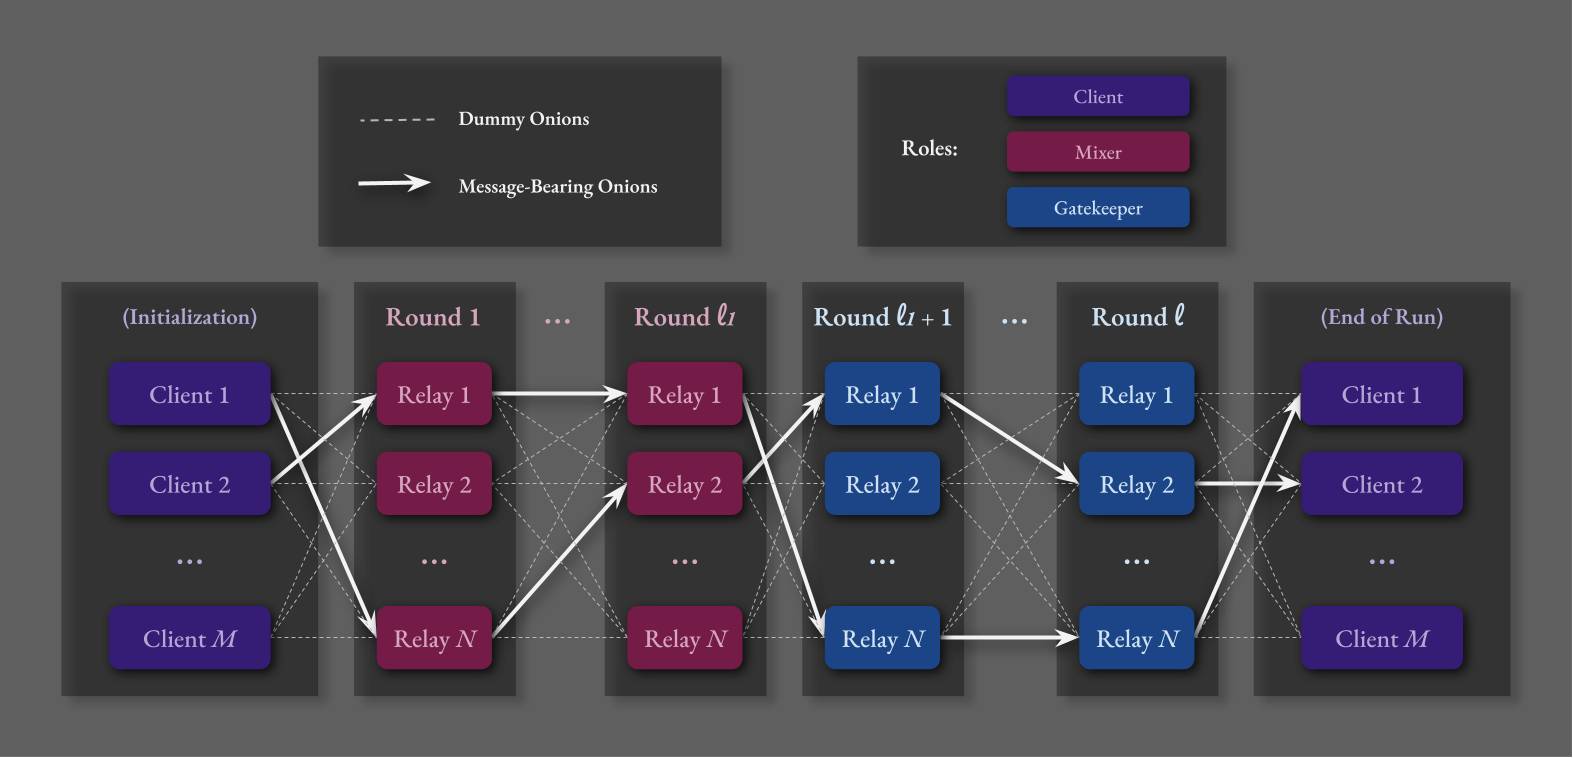
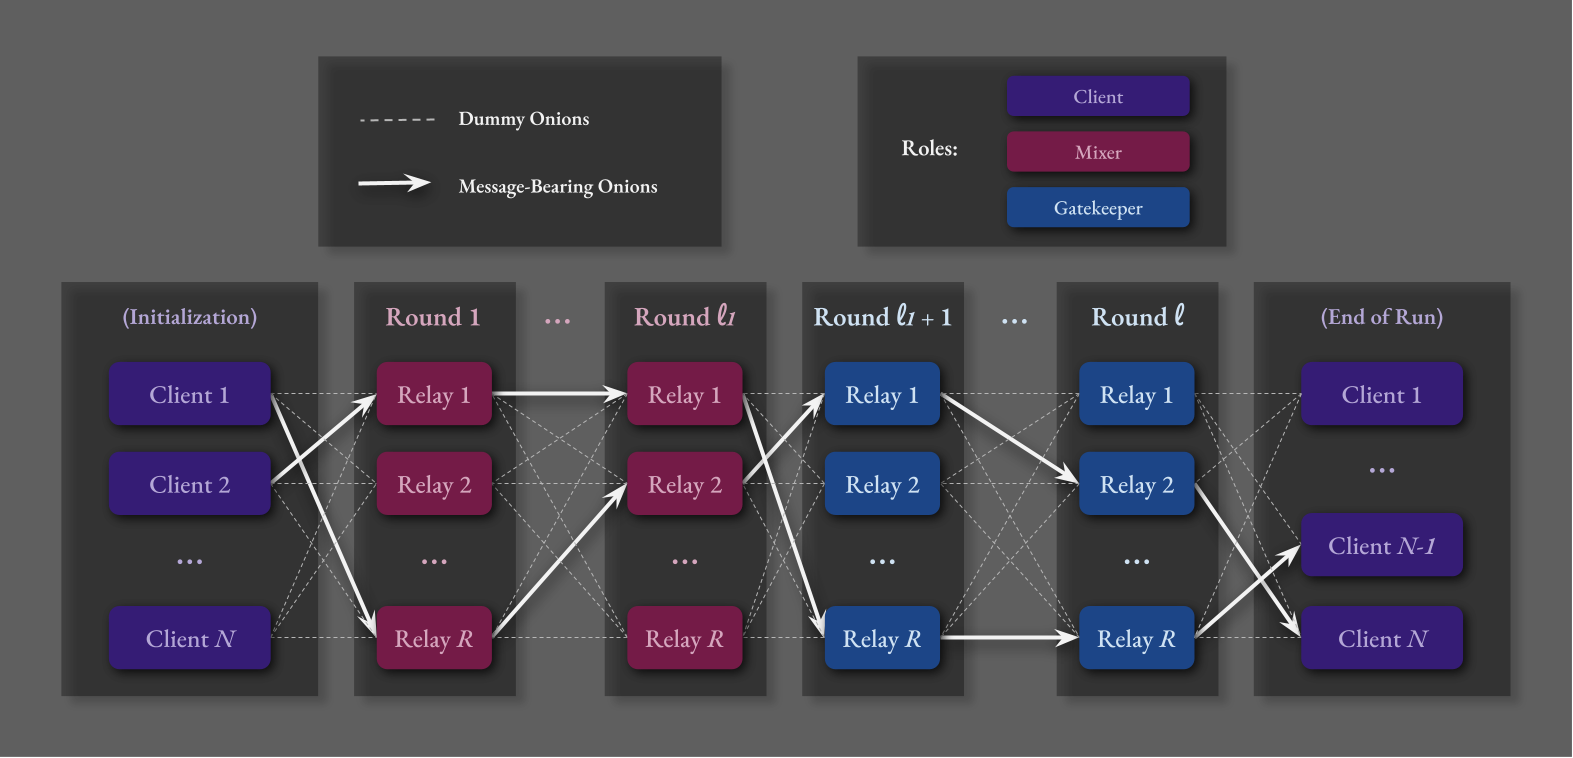
Updated README

diff --git a/README.md b/README.md
@@ -13,7 +13,7 @@ For an implementation of $`\Pi_t`$, see [github.com/HannahMarsh/pi_t-experiment]
 &nbsp;
 
 <figure>
-  <figcaption><em>Figure 1 - Onion Routing Visualization</em></figcaption>
+  <figcaption><b>Figure 1</b> - <em>Routing Path Visualization, Example "Scenario 0" (with N clients, R Relays, l1 mixers, and l rounds)</em></figcaption>
   <img src="img/onion-routing.png" alt="binomials" width="100%"/>
 </figure>
 
